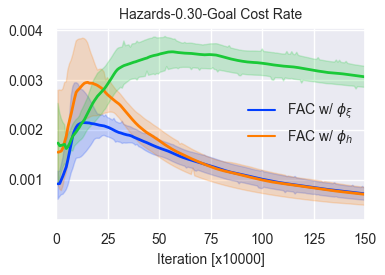
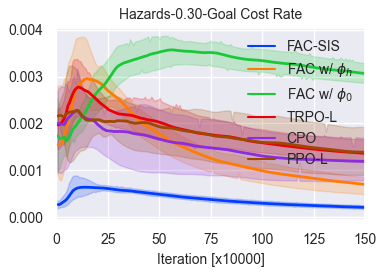
update plots

diff --git a/data_process/lineplot_aaai.py b/data_process/lineplot_aaai.py
@@ -16,7 +16,7 @@ paper = True
 sns.set(style="darkgrid")
 if paper: sns.set(font_scale=1.)
 fontsize = 10 if paper else 16
-SMOOTHFACTOR = 0.1
+SMOOTHFACTOR = 0.25
 SMOOTHFACTOR2 = 8
 DIV_LINE_WIDTH = 50
 txt_store_alg_list = ['CPO', 'PPO-L', 'TRPO-L','PPO-DA','PPO-H','FSAC-0']
@@ -26,22 +26,27 @@ env_name_dict = dict(CustomGoal2='Hazards-0.15', CustomGoal3='Hazards-0.30-Goal'
 tag_name_dict = dict(episode_return='Average Episode Return', episode_cost='Average Episode Costs',
                      cost_rate='Cost Rate', num_sampled_costs='Accumulative Costs',
                      ep_phi_increase_times='Episode infeasible state num')
+y_lim_dict=dict(CustomPush2_episode_cost=[0, 5],
+                CustomPush1_ep_phi_increase_times=[-1, 40],
+                CustomPush2_ep_phi_increase_times=[-1, 40])
 label_font_prop = dict(family='Microsoft YaHei', size=16)
 legend_font_prop = dict(family='Microsoft YaHei')
 
+
 def help_func():
     # tag2plot = ['episode_return','episode_cost'] #
-    # tag2plot = ['ep_phi_increase_times']
-    tag2plot = ['cost_rate']
-    alg_list = ['FSAC-A','FSAC', 'FSAC-0', 'TRPO-L', 'CPO', 'PPO-L'] #
+    tag2plot = ['ep_phi_increase_times']
+    # tag2plot = ['cost_rate']
+    # alg_list = ['FSAC-A','FSAC', 'FSAC-0', 'TRPO-L', 'CPO', 'PPO-L'] #
     # alg_list = ['PPO-DA','PPO-H','FSAC-0'] #
+    alg_list = ['FSAC-A','FSAC','FSAC-0'] #
     # alg_list = ['PPO-DA', 'PPO-H', 'FSAC-0', 'TRPO-L', 'CPO', 'PPO-L']  #
-    # alg_list = ['PPO-DA', 'TRPO-L', 'CPO', 'PPO-L']  # 'SAC',
     # lbs = ['SSAC', 'FSAC-A' ] # , 'TRPO-Lagrangian', 'CPO', 'PPO-Lagrangian'
     # lbs = [r'$\phi_h$', r'$\phi_\xi$']
-    lbs = ['FAC-SIS', r'FAC w/ $\phi_h$', r'FAC w/ $\phi_0$', 'TRPO-L', 'CPO', 'PPO-L'] #
-    # lbs = ['FAC-SIS', r'FAC w/ $\phi_h$', r'FAC w/ $\phi_0$',]
+    # lbs = ['FAC-SIS', r'FAC w/ $\phi_h$', r'FAC w/ $\phi_0$', 'TRPO-L', 'CPO', 'PPO-L'] #
+    lbs = ['FAC-SIS', r'FAC w/ $\phi_h$', r'FAC w/ $\phi_0$',]
     task = ['CustomGoal2'] # 'CustomGoal2','CustomPush1','CustomGoal3',
+    # task = ['CustomPush1','CustomPush2','CustomGoal3',]  # 'CustomGoal2','CustomPush1','CustomGoal3',
     palette = "bright"
     goal_perf_list = [-200, -100, -50, -30, -20, -10, -5]
     dir_str = '../results/{}/{}' # .format(algo name) # /data2plot
@@ -116,6 +121,9 @@ def plot_eval_results_of_all_alg_n_runs(dirs_dict_for_plot=None):
             plt.yticks(fontsize=fontsize)
             plt.xticks(fontsize=fontsize)
             plt.xlim([0, 150])
+            fig_handle = task +'_' + tag
+            if fig_handle in y_lim_dict.keys():
+                ax1.set_ylim(*y_lim_dict.get(fig_handle))
             plt.title(title, fontsize=fontsize)
             plt.gcf().set_size_inches(3.85, 2.75)
             plt.tight_layout(pad=0.5)
@@ -158,10 +166,13 @@ def get_datasets(logdir, tag2plot, alg, condition=None, smooth=SMOOTHFACTOR2, nu
             exp_data.insert(len(exp_data.columns), 'num_run', num_run)
             if alg == 'PPO-DA':
                 for i in range(len(exp_data)):
-                    exp_data['ep_phi_increase_times'][i] = exp_data['ep_phi_increase_times'][i] if exp_data['iteration'][i] <= 120 \
-                        else (150 - exp_data['iteration'][i]) / 30 * exp_data['ep_phi_increase_times'][i]
+                    exp_data['ep_phi_increase_times'] = np.clip(
+                        exp_data['ep_phi_increase_times'] - exp_data['ep_phi_increase_times'][150], 0, np.inf
+                    )
+                    exp_data['ep_phi_increase_times'][i] = exp_data['ep_phi_increase_times'][i] if exp_data['iteration'][i] <= 100 \
+                        else (150 - exp_data['iteration'][i]) / 50 * exp_data['ep_phi_increase_times'][i]
                 # exp_data['episode_return'] = exp_data['episode_return'] * 1.5
-                # exp_data['cost_rate'] = exp_data['cost_rate'] * 0.3
+                exp_data['cost_rate'] = exp_data['cost_rate'] * 0.3
 
 
             datasets.append(exp_data)
